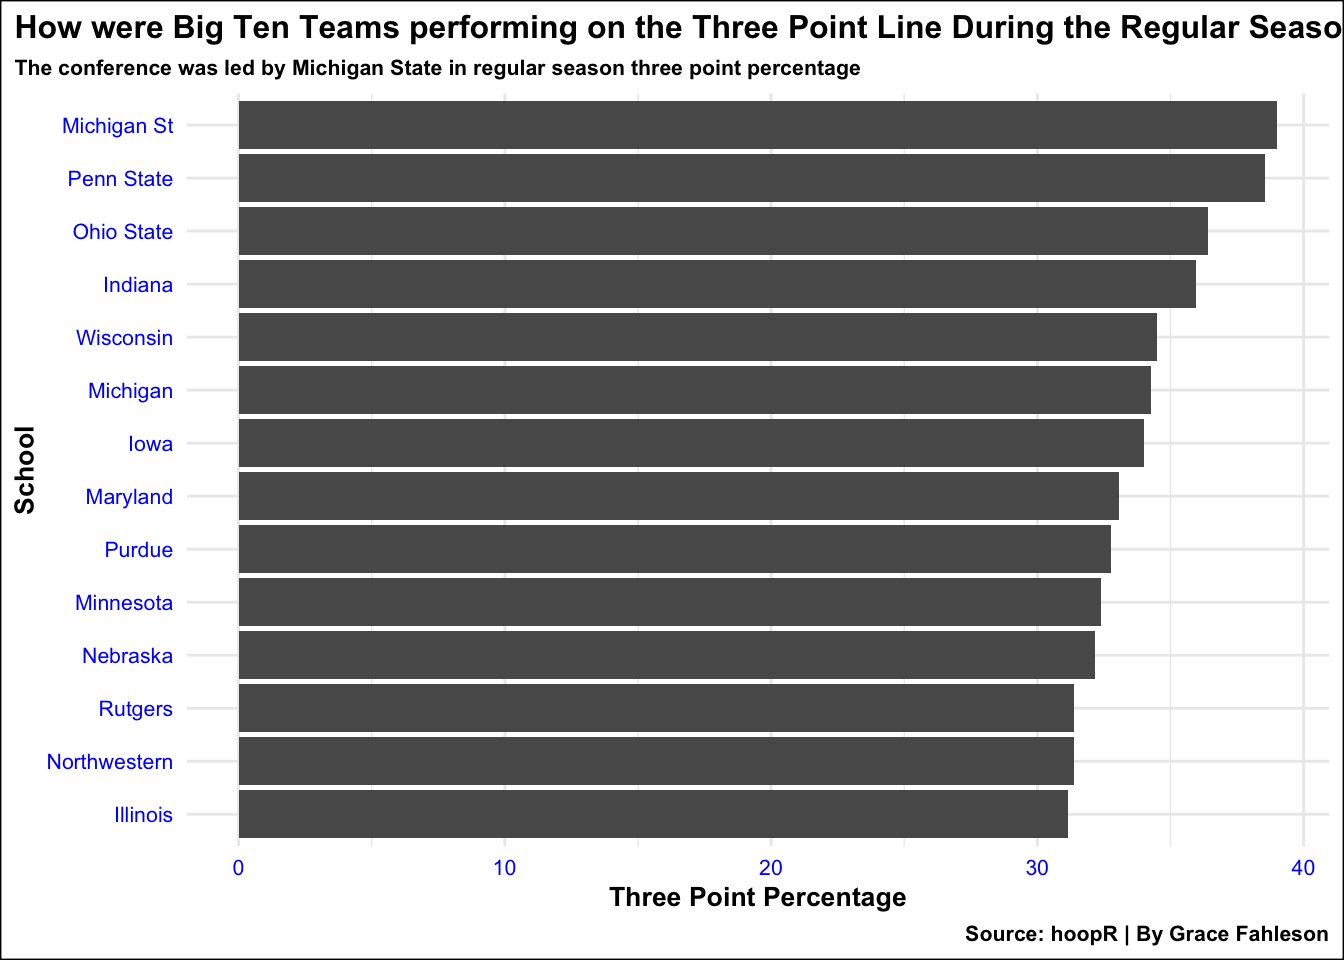
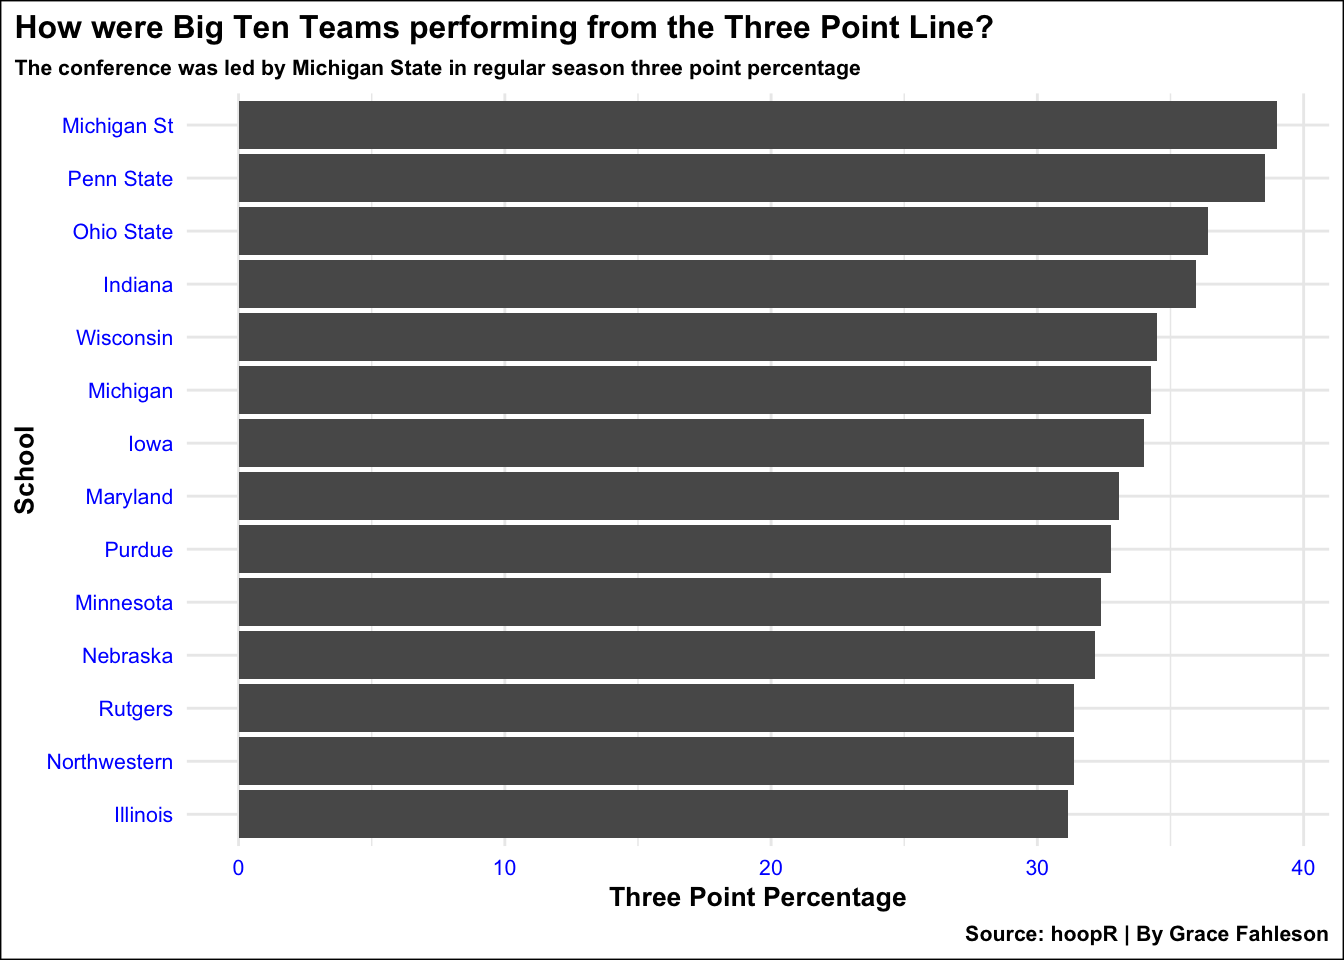
change to header

Changed region(s): [[0.4375, 0.0, 1.0, 0.0625]]

diff --git a/posts/ku-basketball-2020-national-champs-?/index.html b/posts/ku-basketball-2020-national-champs-?/index.html
@@ -243,7 +243,7 @@ pre > code.sourceCode > span > a:first-child::before { text-decoration: underlin
 <span id="cb4-31"><a href="#cb4-31" aria-hidden="true" tabindex="-1"></a>   <span class="fu">labs</span>(</span>
 <span id="cb4-32"><a href="#cb4-32" aria-hidden="true" tabindex="-1"></a>    <span class="at">x=</span><span class="st">"School"</span>, </span>
 <span id="cb4-33"><a href="#cb4-33" aria-hidden="true" tabindex="-1"></a>    <span class="at">y=</span><span class="st">"Three Point Percentage"</span>, </span>
-<span id="cb4-34"><a href="#cb4-34" aria-hidden="true" tabindex="-1"></a>    <span class="at">title=</span><span class="st">"How were Big Ten Teams performing on the Three Point Line During the Regular Season?"</span>, </span>
+<span id="cb4-34"><a href="#cb4-34" aria-hidden="true" tabindex="-1"></a>    <span class="at">title=</span><span class="st">"How were Big Ten Teams performing from the Three Point Line?"</span>, </span>
 <span id="cb4-35"><a href="#cb4-35" aria-hidden="true" tabindex="-1"></a>    <span class="at">subtitle=</span><span class="st">"The conference was led by Michigan State in regular season three point percentage"</span>, </span>
 <span id="cb4-36"><a href="#cb4-36" aria-hidden="true" tabindex="-1"></a>    <span class="at">caption=</span><span class="st">"Source: hoopR | By Grace Fahleson"</span></span>
 <span id="cb4-37"><a href="#cb4-37" aria-hidden="true" tabindex="-1"></a>    )   <span class="sc">+</span>             </span>

diff --git a/index.html b/index.html
@@ -200,7 +200,7 @@ window.Quarto = {
 
 <div class="quarto-listing quarto-listing-container-default" id="listing-listing">
 <div class="list quarto-listing-default">
-<div class="quarto-post image-right" data-index="0" data-categories="QmlnIFRlbixCYXNrZXRiYWxsLE5DQUE=" data-listing-date-sort="1730786400000" data-listing-file-modified-sort="1731873046375" data-listing-date-modified-sort="NaN" data-listing-reading-time-sort="2" data-listing-word-count-sort="268">
+<div class="quarto-post image-right" data-index="0" data-categories="QmlnIFRlbixCYXNrZXRiYWxsLE5DQUE=" data-listing-date-sort="1730786400000" data-listing-file-modified-sort="1731884208953" data-listing-date-modified-sort="NaN" data-listing-reading-time-sort="2" data-listing-word-count-sort="266">
 <div class="thumbnail">
 <p><a href="./posts/ku-basketball-2020-national-champs-?/index.html" class="no-external"></a></p><a href="./posts/ku-basketball-2020-national-champs-?/index.html" class="no-external">
 <p class="card-img-top"><img src="posts/ku-basketball-2020-national-champs-?/index_files/figure-html/unnamed-chunk-2-1.png"  class="thumbnail-image card-img"/></p>
